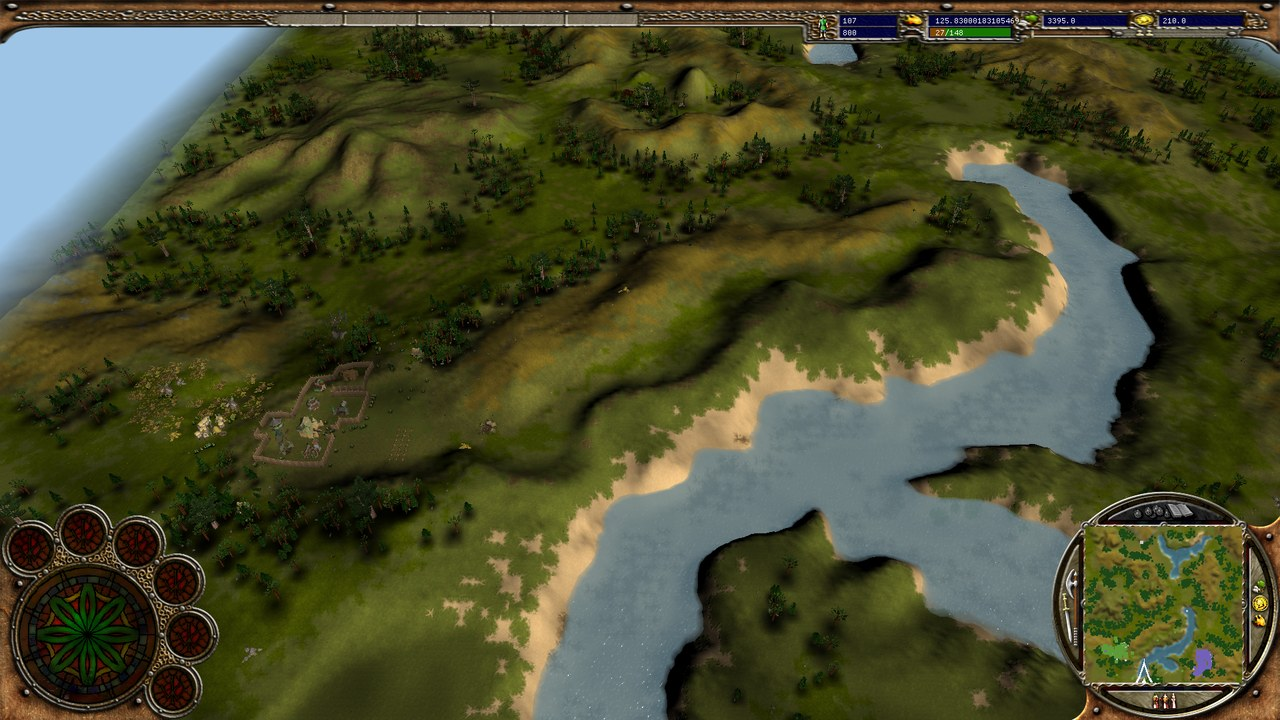
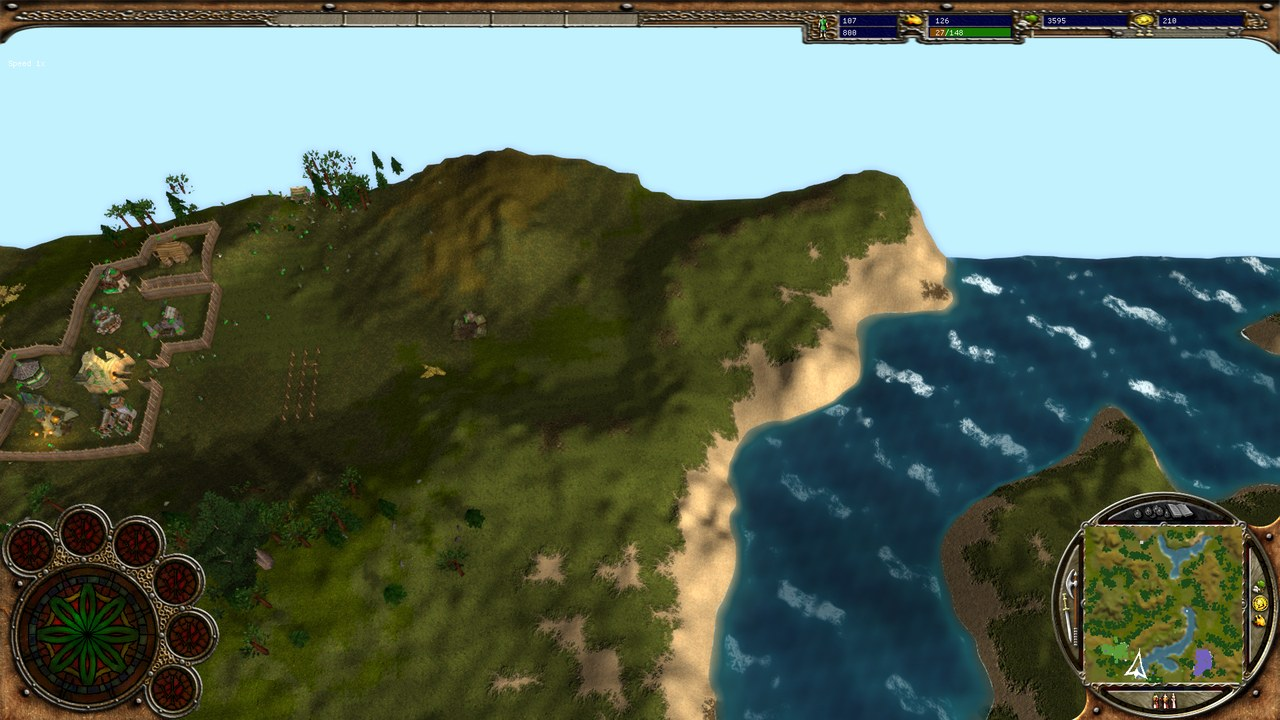
README: wkbai's features and status, new screenshots
The two screenshots are taken again in the same places with the new
features on (grass, fire lights, real shadows, terrain tessellation,
High water, FXAA, 16x anisotropic filtering). The feature list gains the
water levels, ocean, rivers, reflections, tessellation, grass, fire
lights, FXAA, anisotropic filtering, the AI's commissions and sight, and
the differential tests against the original; the status table comes from
the timeline (Phase 5 current).

diff --git a/README.md b/README.md
@@ -9,19 +9,21 @@
 > reimplementation of Warrior Kings and Warrior Kings: Battles (Black Cactus, 2002/2003).
 > This fork is developed **with AI assistance (Claude) and reverse engineering of the original game**.
 > The original executable is analysed (Ghidra, disassembly, Direct3D call traces, side-by-side captures)
-> to find out how the original renders and behaves, and wkbre2 is then changed to match it or to improve on it.
+> to find out how the original renders and behaves, and the engine is then changed to match it or to improve on it.
 > All credit for wkbre2 itself goes to AdrienTD and its contributors.
 >
 > The work happens on the `modernization` branch. No code or assets of the original game are included:
 > you need your own copy of the game.
 
-![A town in a campaign save, rendered by this fork](docs/screenshot-town.jpg)
+![A town in a campaign save, rendered by wkbai](docs/screenshot-town.jpg)
 
-*The stress-test scene: a campaign save with about 4,850 objects in view, drawn with Direct3D 12.*
+*The stress-test scene: a campaign save with about 4,850 objects in view, drawn with Direct3D 12. Grass, fire lights, real unit shadows, terrain tessellation, FXAA and 16x anisotropic filtering are on.*
 
-![The whole map of the same save without fog](docs/screenshot-map.jpg)
+![The same save from above without fog, with the High water](docs/screenshot-map.jpg)
 
-## What this fork changes
+*The same save from above, without fog: the High water, with tessellated waves and whitecaps.*
+
+## What wkbai changes
 
 Compared with upstream wkbre2:
 
@@ -54,32 +56,50 @@ Compared with upstream wkbre2:
   - **Scripts:** the game-set parser stays in sync on unimplemented keywords.
   - **Missing files:** broken mod combinations no longer crash.
 - **AI**
-  - **Kingmaker AI:** stalls fixed (deleted objects, work orders, farms at the map's corner, an upgrade waited for forever), towns get their walls and gatehouse, and the armies' `FORCE_BALANCE` works.
+  - **Kingmaker AI:** stalls fixed (deleted objects, work orders, farms at the map's corner, an upgrade waited for forever), and towns get their walls and gatehouse.
+    - **Commissions:** saved and loaded. `FORCE_BALANCE` serves the least filled requirement first, as the original does, and a commission waiting for a busy building keeps its resources.
+    - **Sight:** the AI sees by sight (`IS_VISIBLE`, `IS_DISCOVERED`).
+  - **Differential tests against the original:** wkbai plays 30 game seconds on from a save of the original's (Marjoria's Keep) and is compared object by object with the original's own save after the same time. 135 of 138 unit and building counts now match.
   - **Aggressive AI** (skirmish setting, on by default): at most 80 peasants, barracks first, armies launched as soon as they can be paid, food-only fighters when wood or gold is short, and all of an AI's armies sent against its nearest enemy (an AI destroyed per 25-minute 8-player game, none before).
   - **Diplomacy:** AIs' diplomatic offers reach the players offered to, whose scripts answer them.
   - **Headless AI-vs-AI test** (test 30) with a census per minute, and a tournament tool over several seeds.
 - **Pathfinding:** units keep to the terrain their passability fields allow, as the original's per-tile test does (no walking over water, river beds or mountains).
 - **Graphics options** (enhanced renderer)
-  - **Post-processing:** ambient occlusion and bloom.
-  - **Real unit shadows** from the sun's shadow map, and wall shadows.
+  - **Post-processing:** ambient occlusion, bloom, and **FXAA** anti-aliasing (on by default).
+  - **Anisotropic filtering:** up to 16x for the terrain, the water and the models.
+  - **Real unit shadows** from the sun's shadow map, and wall shadows (higher-resolution shadow maps optional).
+  - **Fire lights:** burning buildings, flaming arrows and fire spells light the terrain and the models around them.
+  - **Water, in six levels:**
+    - **Off:** a plain colour, as the original without its water surface.
+    - **Original:** the original's textured water.
+    - **Low:** sky and screen-space reflections, refraction, depth colour, shore foam and flowing rivers.
+    - **Medium:** the ocean look on the flat surface.
+    - **High:** tessellated ocean waves with crest foam and surf.
+    - **Ultra:** finer waves out to the far distance.
+  - **Ocean:** long, smooth waves in groups that never repeat, deep teal water with light through the crests, sun sparkles and patchy foam.
+  - **Rivers:** they follow the geography, each with its own coordinates along and across its channel (from where the water meets the terrain). Small ripples are carried downstream by a current that is faster where the river is narrow, with foam along the banks and short-lived crests where it runs tight. They drain into the largest water they meet or off the map, and blend smoothly into the sea.
+  - **Reflections:** of what is on screen (from Low up) and of the sky box itself.
+  - **Terrain tessellation:** a smooth surface on the GPU, with objects placed exactly on it. The game's own heights are unchanged.
+  - **Grass:** PBR grass blades on green ground, with density (up to 24 per square metre) and height sliders, thinning out with the distance.
   - **Blended terrain:** materials blended at the tile corners, each from several of its tiles, triplanar on cliffs (off by default).
   - **Model highlights:** per-pixel lighting with GGX sun highlights, light from the sky box's colours, and override packs (`<texture>_normal`, `<texture>_orm`) for modders (off by default).
+  - **Particles:** sprites, and streaks (wood chips, sparks) drawn as thin lines.
 - **Formats:** glTF 2.0 models (import as overrides, export with `"exportGltf"`), DDS textures (BC1-BC5, BC7) and KTX2 (RGBA8, BC1-BC5, BC7; BC7 uploaded compressed).
 - **Map editor** (F8): heights, texture painting, lakes, objects, the players' resources and diplomacy, terrain zones, a new blank map, undo, a new minimap on saving, a check (missing start cameras, players that can't be reached by land), and save-and-play.
 - **Settings:** an options menu, and a settings window on **F10** for the view distance, fog, field of view, colour grading, shadows, water and camera speed.
 
 ## Status
 
-The project follows a ten-phase plan, from setup (phase 0) to release (phase 9). **Current phase:** 4, modern renderer. **Next:** Phase 8: focused attacks measured, then army retreat and regrouping; Phase 2: pathfinding search and combat RE, a menu-driven differential harness; Phase 6: triggers, the new map format; Phase 4: faithful mode, PBR override packs.
+The project follows a ten-phase plan, from setup (phase 0) to release (phase 9). **Current phase:** 5, gameplay parity. **Next:** Phase 5: test 36's last differences (wood after loading: saved animation-loop triggers; tree stumps; a farm foundation), the original's arrival rule for attachment paths; Phase 8: army retreat and regrouping; Phase 6: the new map format and editor features.
 
 | Phase | Progress | Done | Open |
 |---|---|---|---|
 | 0 Setup & quick wins | 7/7 | Git repo, Pristine SHA-256 hashes, Toolchain installed, REA + Ghidra connected, DXVK quick win, Baseline perf captures, Identify version.dll | — |
 | 1 Asset & format knowledge | 4/4 | BCP reader/extractor, Format specs, Round-trip tests, Asset inventory | — |
-| 2 Binary RE (ongoing) | 5/7 | Exe in Ghidra via REA, RTTI class hierarchy, Keyword diff vs wkbre2, Original file system (BCP load rule), Renderer interface signatures | Pathfinding/combat/AI RE (in progress), Differential test harness |
+| 2 Binary RE (ongoing) | 7/7 | Exe in Ghidra via REA, RTTI class hierarchy, Keyword diff vs wkbre2, Original file system (BCP load rule), Renderer interface signatures, Pathfinding/combat/AI RE, Differential test harness | — |
 | 3 Engine foundation (wkbre2) | 6/6 | Fork & build wkbre2, Run against game data, CI + round-trip tests, x64 · C++20 · SDL3, Layered VFS (BCP → mods), RHI decision + Tracy | — |
-| **4 Modern renderer** (current) | 4/8 | Diligent integration (D3D12/Vulkan), GPU skinning/instancing/culling, glTF / KTX2, Resolution & UI scaling | Faithful mode (in progress), PBR materials (in progress), Lighting & effects (in progress), Splat-map terrain (in progress) |
-| 5 Gameplay parity | 7/8 | Evaluate WKB Plus patch, Minimap + DISPLAY_ON_MINIMAP, Main menu, Settings, in-game Esc menu, Play-test bugs: stampdown overlap, formations, guard, range circles, rally flag, Deterministic simulation, Fix original engine bugs, Population limit up to 10,000 | Close script/order gaps (in progress) |
+| 4 Modern renderer | 8/8 | Diligent integration (D3D12/Vulkan), Faithful mode, GPU skinning/instancing/culling, PBR materials, Lighting & effects, Splat-map terrain, glTF / KTX2, Resolution & UI scaling | — |
+| **5 Gameplay parity** (current) | 7/8 | Evaluate WKB Plus patch, Minimap + DISPLAY_ON_MINIMAP, Main menu, Settings, in-game Esc menu, Play-test bugs: stampdown overlap, formations, guard, range circles, rally flag, Deterministic simulation, Fix original engine bugs, Population limit up to 10,000 | Close script/order gaps (in progress) |
 | 6 Map editor | 1/3 | Undo / play-test / validation | Port wkbre editor features (in progress), Export original + new format (in progress) |
 | 7 Modding | 4/4 | Mod package format, Asset/script/Lua overrides, Hot reload + mod manager, Modding docs | — |
 | 8 AI overhaul | 2/4 | RE original AI, Headless AI-vs-AI testing | Strategic layer (in progress), Operational/tactical layers (in progress) |
@@ -94,7 +114,7 @@ The project follows a ten-phase plan, from setup (phase 0) to release (phase 9).
   - **gamePath:** the folder where the game is installed, the one that contains data.bcp. Write each backslash twice (`\\`).
   - **gameVersion:** 1 for **Warrior Kings**, 2 for **Warrior Kings: Battles**.
   - **diligentBackend:** optionally, `"d3d12"` (the default) or `"vulkan"`.
-- Launch wkbre2. Press **F10** in game for the settings window.
+- Launch **wkbai.exe**. Press **F10** in game for the settings window. Settings, saves and mods go to `%APPDATA%\wkbai` (copied from `%APPDATA%\wkbre2` the first time).
 
 **Note:** if the program closes at startup without an error, check **wkconfig.json** for syntax errors (missing commas, quotes or braces).
 
